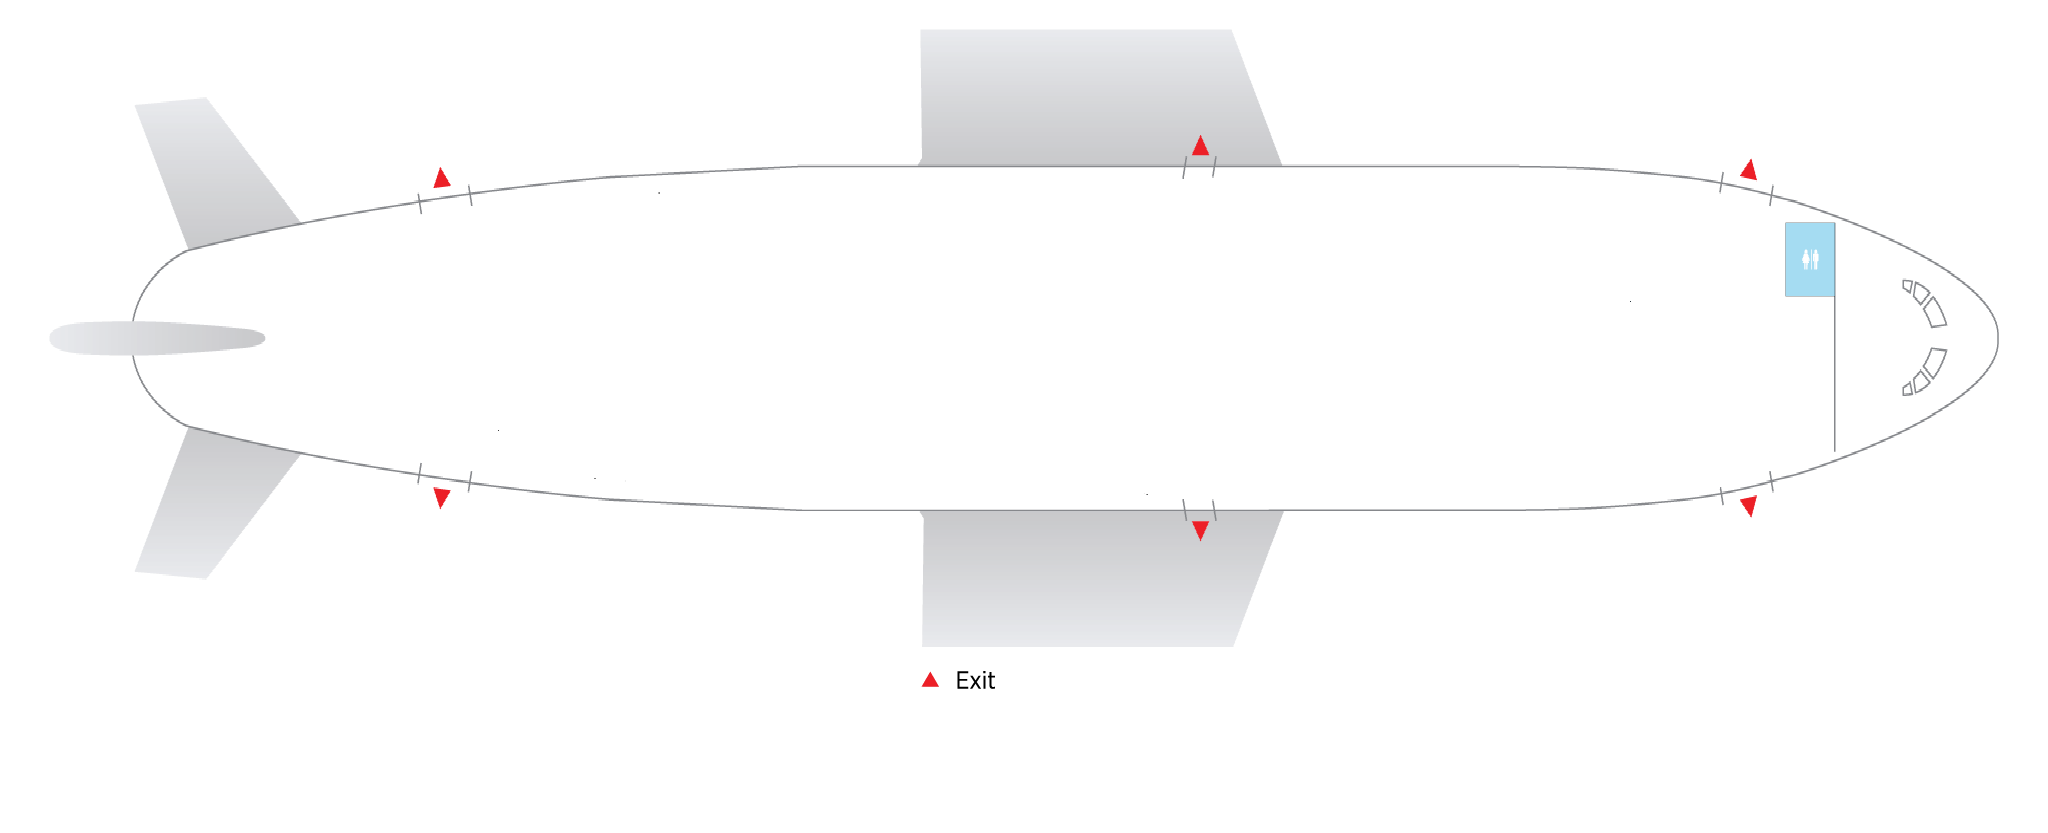
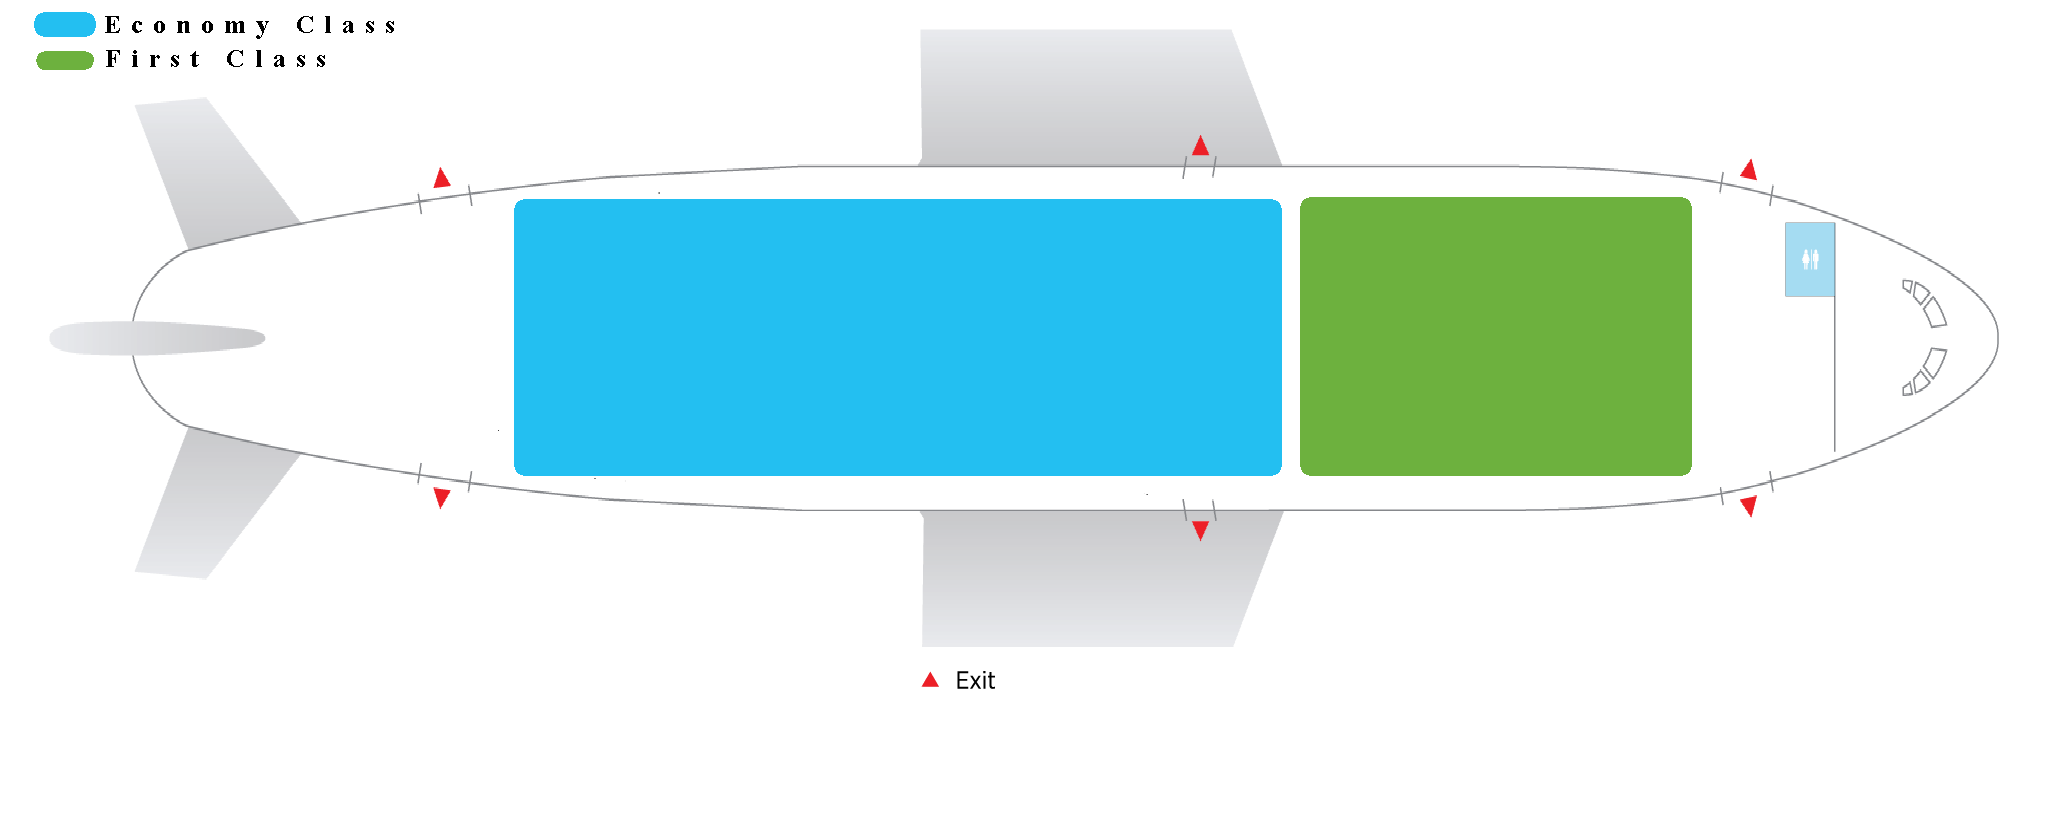
new Updated

Changed region(s): [[0.25, 0.2185, 0.8438, 0.593], [0.0, 0.0, 0.0938, 0.0936], [0.125, 0.0624, 0.1562, 0.0936]]

diff --git a/build/web/booking.html b/build/web/booking.html
@@ -79,12 +79,12 @@
 
                                                         <li data-target="#step2">
                                                                 <span class="                       step">2</span>
-                                                                <span class="title">Payment Info</span>
+                                                                <span class="title">Traveler Info</span>
                                                         </li>
 
                                                         <li data-target="#step3">
                                                                 <span class="step">3</span>
-                                                                <span class="title">Traveler Info</span>
+                                                                <span class="title">Payment Info</span>
                                                         </li>
                                                         <li data-target="#step4">
                                                                 <span class="step">4</span>
@@ -101,7 +101,7 @@
                                         <div class="step-content pos-rel" id="step-container">
 
                                                 <div class="step-pane active" id="step1" style="height: 400px; background: url('img/seating-plan.png'); background-size: 1300px 520px; background-repeat: no-repeat;">
-                                                    <div style="background-color: #34C547; height: 47%; width: 55%; margin-left: 25%; margin-top: 9% ">
+                                                    <div style=" height: 47%; width: 55%; margin-left: 25%; margin-top: 9% ">
                                                         
                                                         <form id="seats" action="" method="POST" >
                                                             <!-- these 8 seats are economy class seats -->
@@ -228,38 +228,8 @@
                                                     </form>-->
                                                     </div>
 
-                                        <div class="step-pane" id="step2">
-                                                <div class="center">
-
-                                                        <div class="form-group">
-
-                                                                <label class="control-label col-xs-12 col-sm-3 no-padding-right" for="accno">Enter Account No:</label>
-
-                                                                        <div class="col-xs-12 col-sm-9">
-                                                                                <div class="clearfix">
-                                                                                        <input type="text" name="accno" id="accno" class="col-xs-12 col-sm-4" />
-                                                                                </div>
-                                                                        </div>
-                                                        </div>	
-
-                                                        <div style="padding: 25px"></div>
-
-                                                        <div class="form-group">
-                                                                <label class="control-label col-xs-12 col-sm-3 no-padding-right" for="pass">Enter Password:</label>
-
-                                                                        <div class="col-xs-12 col-sm-9">
-                                                                                <div class="clearfix">
-                                                                                        <input type="password" name="pass" id="pass" class="col-xs-12 col-sm-4" />
-                                                                                </div>
-                                                                        </div>
-                                                        </div>
-                                                </div>
-
-
-                                                </div>
-
-                                                <div class="step-pane" id="step3">
-                                                        <h3 class="lighter block green">Enter the following information</h3>
+                                                <div class="step-pane" id="step2">
+                                                     <h3 class="lighter block green">Enter the following information</h3>
 
 
 
@@ -326,26 +296,40 @@
 
                                                                 <div class="hr hr-dotted"></div>
 
+                                                               
+                                                        </form>   
+
+
+                                                </div>
+
+                                                <div class="step-pane" id="step3">
+                                                    
+                                                    <div class="center">
+
                                                                 <div class="form-group">
-                                                                        <label class="control-label col-xs-12 col-sm-3 no-padding-right" for="lname">Login Name:</label>
 
-                                                                        <div class="col-xs-12 col-sm-9">
-                                                                                <div class="clearfix">
-                                                                                        <input type="text" id="lname" name="lname" class="col-xs-12 col-sm-5" />
+                                                                        <label class="control-label col-xs-12 col-sm-3 no-padding-right" for="accno">Enter Account No:</label>
+
+                                                                                <div class="col-xs-12 col-sm-9">
+                                                                                        <div class="clearfix">
+                                                                                                <input type="text" name="accno" id="accno" class="col-xs-12 col-sm-4" />
+                                                                                        </div>
                                                                                 </div>
-                                                                        </div>
-                                                                </div>
+                                                                </div>	
+
+                                                                <div style="padding: 25px"></div>
 
                                                                 <div class="form-group">
-                                                                        <label class="control-label col-xs-12 col-sm-3 no-padding-right" for="password">Password:</label>
+                                                                        <label class="control-label col-xs-12 col-sm-3 no-padding-right" for="pass">Enter Password:</label>
 
-                                                                        <div class="col-xs-12 col-sm-9">
-                                                                                <div class="clearfix">
-                                                                                        <input type="password" name="password" id="password" class="col-xs-12 col-sm-4" />
+                                                                                <div class="col-xs-12 col-sm-9">
+                                                                                        <div class="clearfix">
+                                                                                                <input type="password" name="pass" id="pass" class="col-xs-12 col-sm-4" />
+                                                                                        </div>
                                                                                 </div>
-                                                                        </div>
                                                                 </div>
-                                                        </form>
+                                                        </div>
+                                                        
                                                 </div>
 
                                                 <div class="step-pane" id="step4">
@@ -373,7 +357,10 @@
                                                         Next
                                                         <i class="ace-icon fa fa-arrow-right icon-on-right"></i>
                                                 </button>
-
+                                                
+                                                <button class="btn" type="button" onclick="window.location.href = 'index.jsp'">
+                                                        Cancel
+                                                </button>
                                                 <!-- /section:plugins/fuelux.wizard.buttons -->
                                         </div>
 
@@ -437,15 +424,14 @@
 					bootbox.dialog({
 						message: "Thank you! Your information was successfully saved!", 
 						buttons: {
-							"success" : {
-								"label" : "OK",
-								"className" : "btn-sm btn-primary"
-							}
-
+							
+                                                        OK: function() {
+                                                                window.location.href = "index.jsp";
+                                                              }
 						}
 
 					});
-					window.close();
+					
 				}).on('stepclick', function(e){
 					//e.preventDefault();//this will prevent clicking and selecting steps
 					

diff --git a/web/booking.html b/web/booking.html
@@ -79,12 +79,12 @@
 
                                                         <li data-target="#step2">
                                                                 <span class="                       step">2</span>
-                                                                <span class="title">Payment Info</span>
+                                                                <span class="title">Traveler Info</span>
                                                         </li>
 
                                                         <li data-target="#step3">
                                                                 <span class="step">3</span>
-                                                                <span class="title">Traveler Info</span>
+                                                                <span class="title">Payment Info</span>
                                                         </li>
                                                         <li data-target="#step4">
                                                                 <span class="step">4</span>
@@ -101,7 +101,7 @@
                                         <div class="step-content pos-rel" id="step-container">
 
                                                 <div class="step-pane active" id="step1" style="height: 400px; background: url('img/seating-plan.png'); background-size: 1300px 520px; background-repeat: no-repeat;">
-                                                    <div style="background-color: #34C547; height: 47%; width: 55%; margin-left: 25%; margin-top: 9% ">
+                                                    <div style=" height: 47%; width: 55%; margin-left: 25%; margin-top: 9% ">
                                                         
                                                         <form id="seats" action="" method="POST" >
                                                             <!-- these 8 seats are economy class seats -->
@@ -228,38 +228,8 @@
                                                     </form>-->
                                                     </div>
 
-                                        <div class="step-pane" id="step2">
-                                                <div class="center">
-
-                                                        <div class="form-group">
-
-                                                                <label class="control-label col-xs-12 col-sm-3 no-padding-right" for="accno">Enter Account No:</label>
-
-                                                                        <div class="col-xs-12 col-sm-9">
-                                                                                <div class="clearfix">
-                                                                                        <input type="text" name="accno" id="accno" class="col-xs-12 col-sm-4" />
-                                                                                </div>
-                                                                        </div>
-                                                        </div>	
-
-                                                        <div style="padding: 25px"></div>
-
-                                                        <div class="form-group">
-                                                                <label class="control-label col-xs-12 col-sm-3 no-padding-right" for="pass">Enter Password:</label>
-
-                                                                        <div class="col-xs-12 col-sm-9">
-                                                                                <div class="clearfix">
-                                                                                        <input type="password" name="pass" id="pass" class="col-xs-12 col-sm-4" />
-                                                                                </div>
-                                                                        </div>
-                                                        </div>
-                                                </div>
-
-
-                                                </div>
-
-                                                <div class="step-pane" id="step3">
-                                                        <h3 class="lighter block green">Enter the following information</h3>
+                                                <div class="step-pane" id="step2">
+                                                     <h3 class="lighter block green">Enter the following information</h3>
 
 
 
@@ -326,26 +296,40 @@
 
                                                                 <div class="hr hr-dotted"></div>
 
+                                                               
+                                                        </form>   
+
+
+                                                </div>
+
+                                                <div class="step-pane" id="step3">
+                                                    
+                                                    <div class="center">
+
                                                                 <div class="form-group">
-                                                                        <label class="control-label col-xs-12 col-sm-3 no-padding-right" for="lname">Login Name:</label>
 
-                                                                        <div class="col-xs-12 col-sm-9">
-                                                                                <div class="clearfix">
-                                                                                        <input type="text" id="lname" name="lname" class="col-xs-12 col-sm-5" />
+                                                                        <label class="control-label col-xs-12 col-sm-3 no-padding-right" for="accno">Enter Account No:</label>
+
+                                                                                <div class="col-xs-12 col-sm-9">
+                                                                                        <div class="clearfix">
+                                                                                                <input type="text" name="accno" id="accno" class="col-xs-12 col-sm-4" />
+                                                                                        </div>
                                                                                 </div>
-                                                                        </div>
-                                                                </div>
+                                                                </div>	
+
+                                                                <div style="padding: 25px"></div>
 
                                                                 <div class="form-group">
-                                                                        <label class="control-label col-xs-12 col-sm-3 no-padding-right" for="password">Password:</label>
+                                                                        <label class="control-label col-xs-12 col-sm-3 no-padding-right" for="pass">Enter Password:</label>
 
-                                                                        <div class="col-xs-12 col-sm-9">
-                                                                                <div class="clearfix">
-                                                                                        <input type="password" name="password" id="password" class="col-xs-12 col-sm-4" />
+                                                                                <div class="col-xs-12 col-sm-9">
+                                                                                        <div class="clearfix">
+                                                                                                <input type="password" name="pass" id="pass" class="col-xs-12 col-sm-4" />
+                                                                                        </div>
                                                                                 </div>
-                                                                        </div>
                                                                 </div>
-                                                        </form>
+                                                        </div>
+                                                        
                                                 </div>
 
                                                 <div class="step-pane" id="step4">
@@ -373,7 +357,10 @@
                                                         Next
                                                         <i class="ace-icon fa fa-arrow-right icon-on-right"></i>
                                                 </button>
-
+                                                
+                                                <button class="btn" type="button" onclick="window.location.href = 'index.jsp'">
+                                                        Cancel
+                                                </button>
                                                 <!-- /section:plugins/fuelux.wizard.buttons -->
                                         </div>
 
@@ -437,15 +424,14 @@
 					bootbox.dialog({
 						message: "Thank you! Your information was successfully saved!", 
 						buttons: {
-							"success" : {
-								"label" : "OK",
-								"className" : "btn-sm btn-primary"
-							}
-
+							
+                                                        OK: function() {
+                                                                window.location.href = "index.jsp";
+                                                              }
 						}
 
 					});
-					window.close();
+					
 				}).on('stepclick', function(e){
 					//e.preventDefault();//this will prevent clicking and selecting steps
 					
